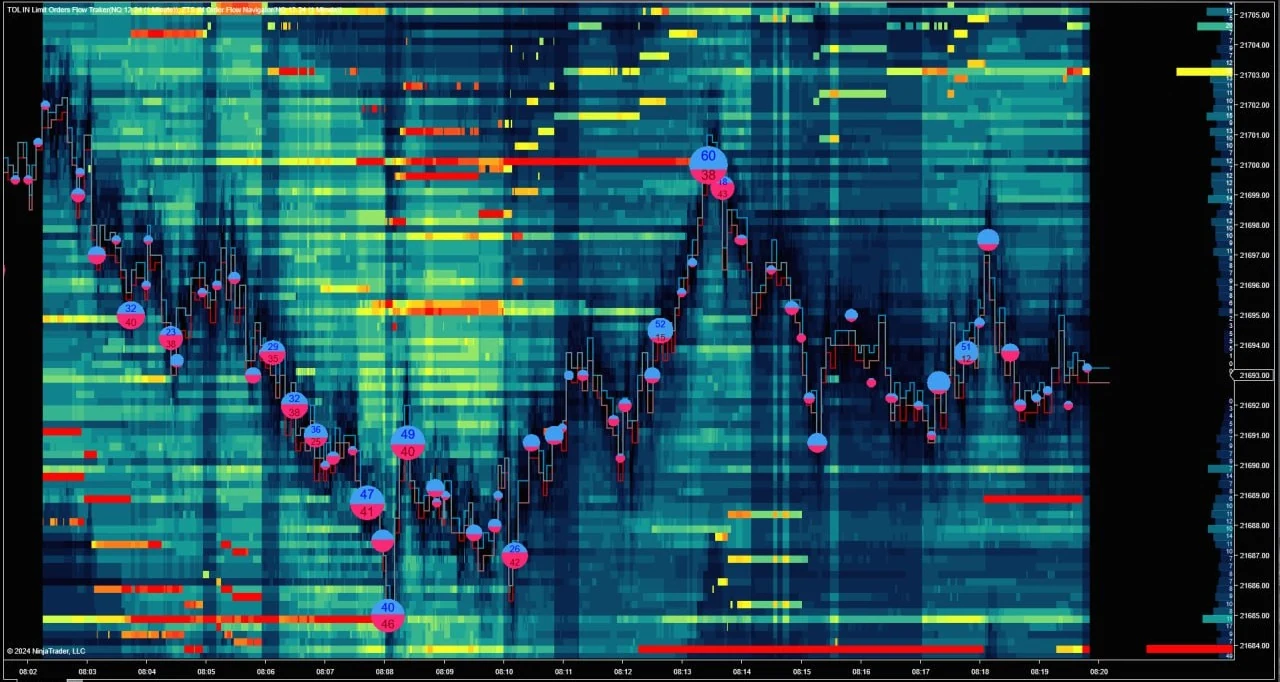
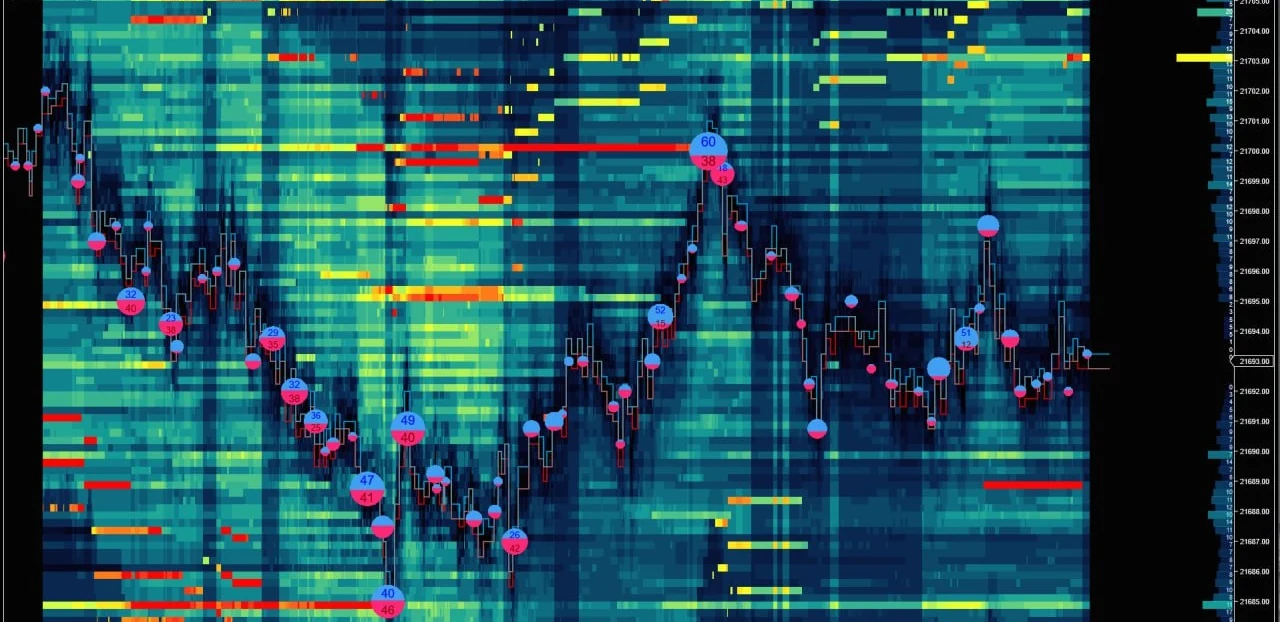
Remove the NinjaTrader name from the text and the screenshots

diff --git a/about.html b/about.html
@@ -127,7 +127,7 @@
           <span class="layer-num"><span class="t-fa">۱</span><span class="t-en">1</span></span>
           <div>
             <h3><span class="t-fa">پلتفرم مستقل، اختصاصی هر پروژه</span><span class="t-en">An independent platform, built per project</span></h3>
-            <p><span class="t-fa">برای هر پروژه، پلتفرم داده و اجرای خودش را از پایه میسازیم — مستقل از هر ابزار آماده. کار ما از نینجاتریدر شروع شد و امروز مستقل است؛ آخرین اتصالها هم در حال حذف شدناند.</span><span class="t-en">For each project we build its own data and execution platform from the ground up, independent of any off-the-shelf tool. We started on NinjaTrader and are now self-contained; the last few ties are being cut.</span></p>
+            <p><span class="t-fa">برای هر پروژه، پلتفرم داده و اجرای خودش را از پایه میسازیم — مستقل از هر ابزار آماده.</span><span class="t-en">For each project we build its own data and execution platform from the ground up, independent of any off-the-shelf tool.</span></p>
           </div>
         </li>
         <li class="reveal">

diff --git a/src/pages/about.html b/src/pages/about.html
@@ -69,7 +69,7 @@
           <span class="layer-num"><span class="t-fa">۱</span><span class="t-en">1</span></span>
           <div>
             <h3><span class="t-fa">پلتفرم مستقل، اختصاصی هر پروژه</span><span class="t-en">An independent platform, built per project</span></h3>
-            <p><span class="t-fa">برای هر پروژه، پلتفرم داده و اجرای خودش را از پایه میسازیم — مستقل از هر ابزار آماده. کار ما از نینجاتریدر شروع شد و امروز مستقل است؛ آخرین اتصالها هم در حال حذف شدناند.</span><span class="t-en">For each project we build its own data and execution platform from the ground up, independent of any off-the-shelf tool. We started on NinjaTrader and are now self-contained; the last few ties are being cut.</span></p>
+            <p><span class="t-fa">برای هر پروژه، پلتفرم داده و اجرای خودش را از پایه میسازیم — مستقل از هر ابزار آماده.</span><span class="t-en">For each project we build its own data and execution platform from the ground up, independent of any off-the-shelf tool.</span></p>
           </div>
         </li>
         <li class="reveal">
